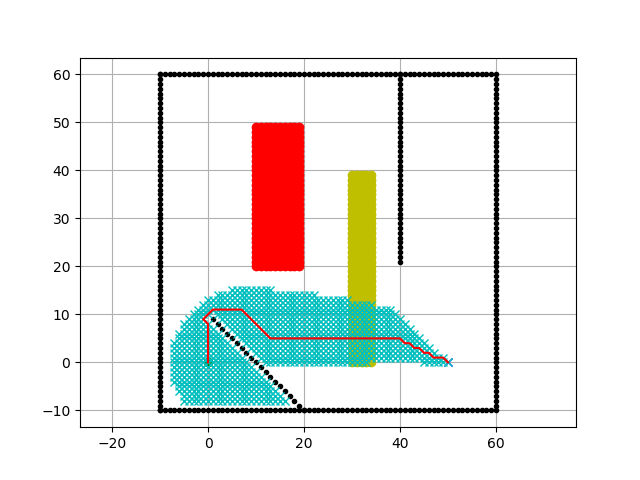
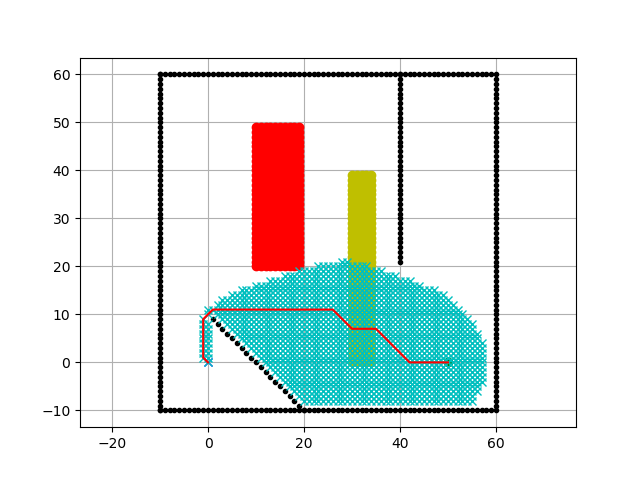
Task 1 Results update

Changed region(s): [[0.25, 0.5312, 0.7812, 0.8438]]

diff --git a/GP8-path-task1.py b/GP8-path-task1.py
@@ -22,7 +22,7 @@ import signal
 
 import sys
 
-show_animation = False
+show_animation = True
 
 
 
@@ -297,9 +297,9 @@ def main():
     print(__file__ + " start the A star algorithm demo !!") # print simple notes
 
     # start and goal position
-    sx = 0.0  # [m]
+    sx = 50.0  # [m]
     sy = 0.0  # [m]
-    gx = 50.0  # [m]
+    gx = 0.0  # [m]
     gy = 0.0  # [m]
     grid_size = 1  # [m]
     robot_radius = 1.0  # [m]
@@ -320,9 +320,7 @@ def main():
         oy.append(i)
     for i in range(-10, 10):
         ox.append(10-i)
-        ox.append(10-i-0.3)
         oy.append(i)
-        oy.append(i-0.3)
     for i in range(0, 40):
         ox.append(40.0)
         oy.append(60.0 - i)
